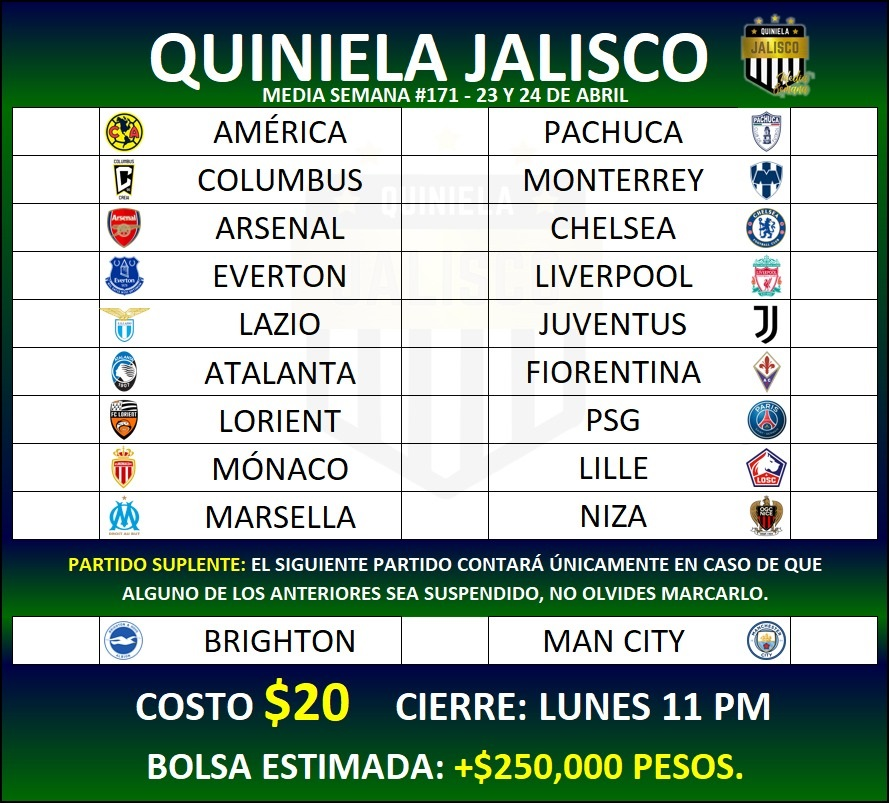
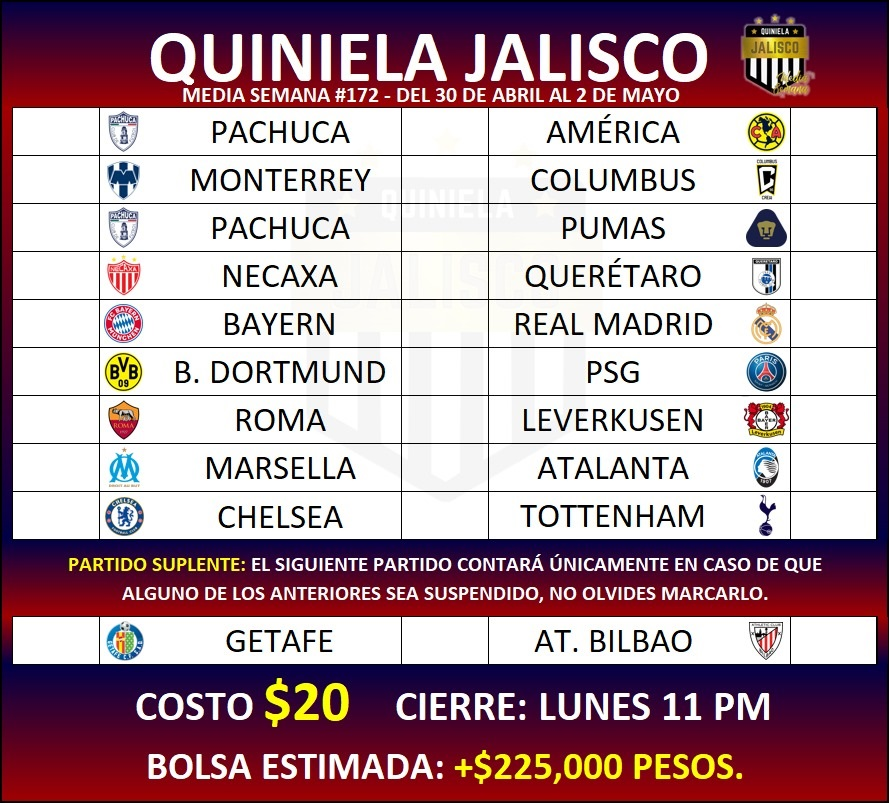
Media semana #172

diff --git a/MediaSemana/stylesmSusp.css b/MediaSemana/stylesmSusp.css
@@ -94,8 +94,8 @@ body{
     margin-top: 9%;
     border: solid 1px black;
     border-radius: 0 0 14px 14px;
-    background: -webkit-linear-gradient(0.5turn, rgb(0 53 36), rgb(0 8 65) 80%);
-    background: linear-gradient(0.5turn, rgb(0 53 36), rgb(0 8 65) 80%);
+    background: -webkit-linear-gradient(0.5turn, rgb(81 0 36), rgb(0 8 65) 80%);
+    background: linear-gradient(0.5turn, rgb(81 0 36), rgb(0 8 65) 80%);
 }
 
 .text-lg{
@@ -290,7 +290,7 @@ h6{
 }
 
 #cantidad:before{
-    content:' +$250,000 pesos';
+    content:' +$225,000 pesos';
     color: yellow;
     white-space:pre;
 }
